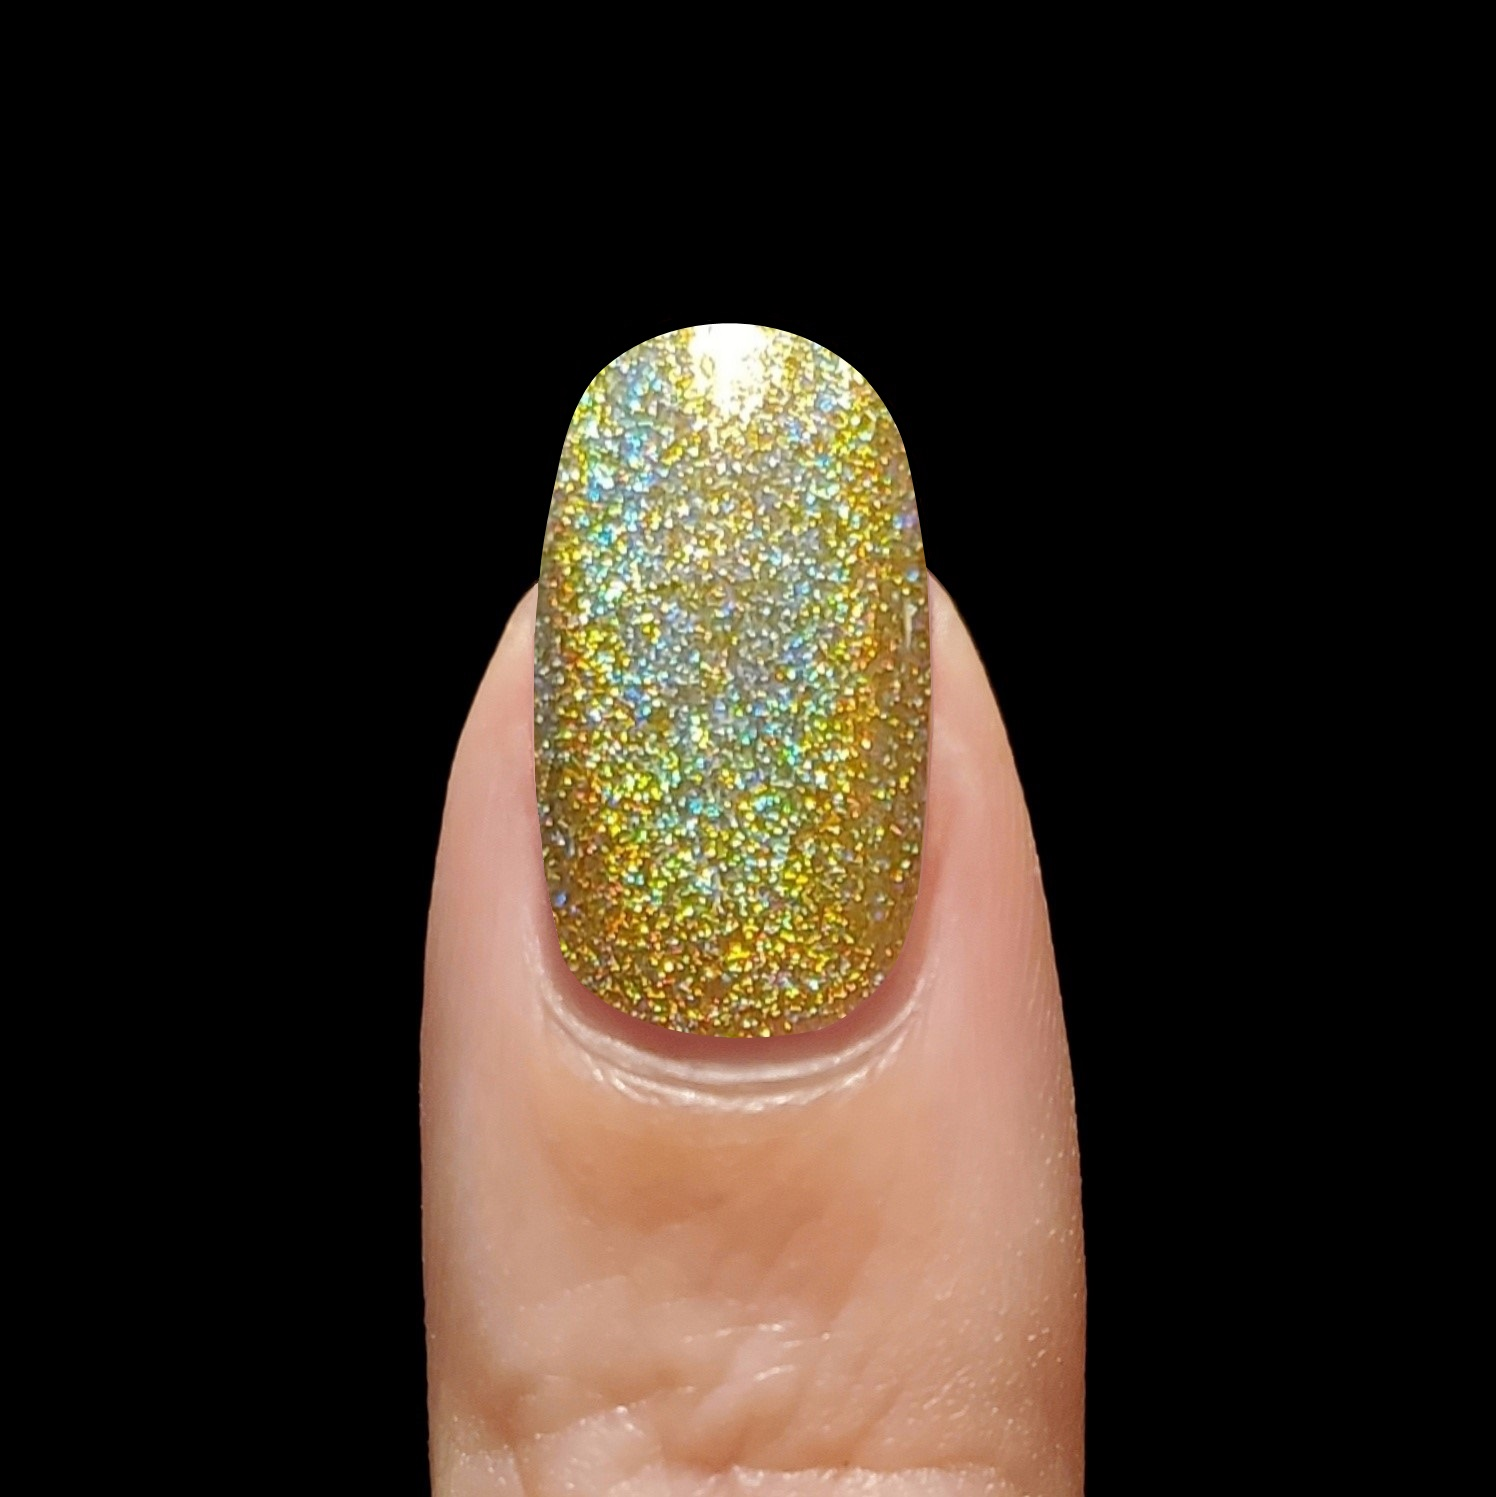
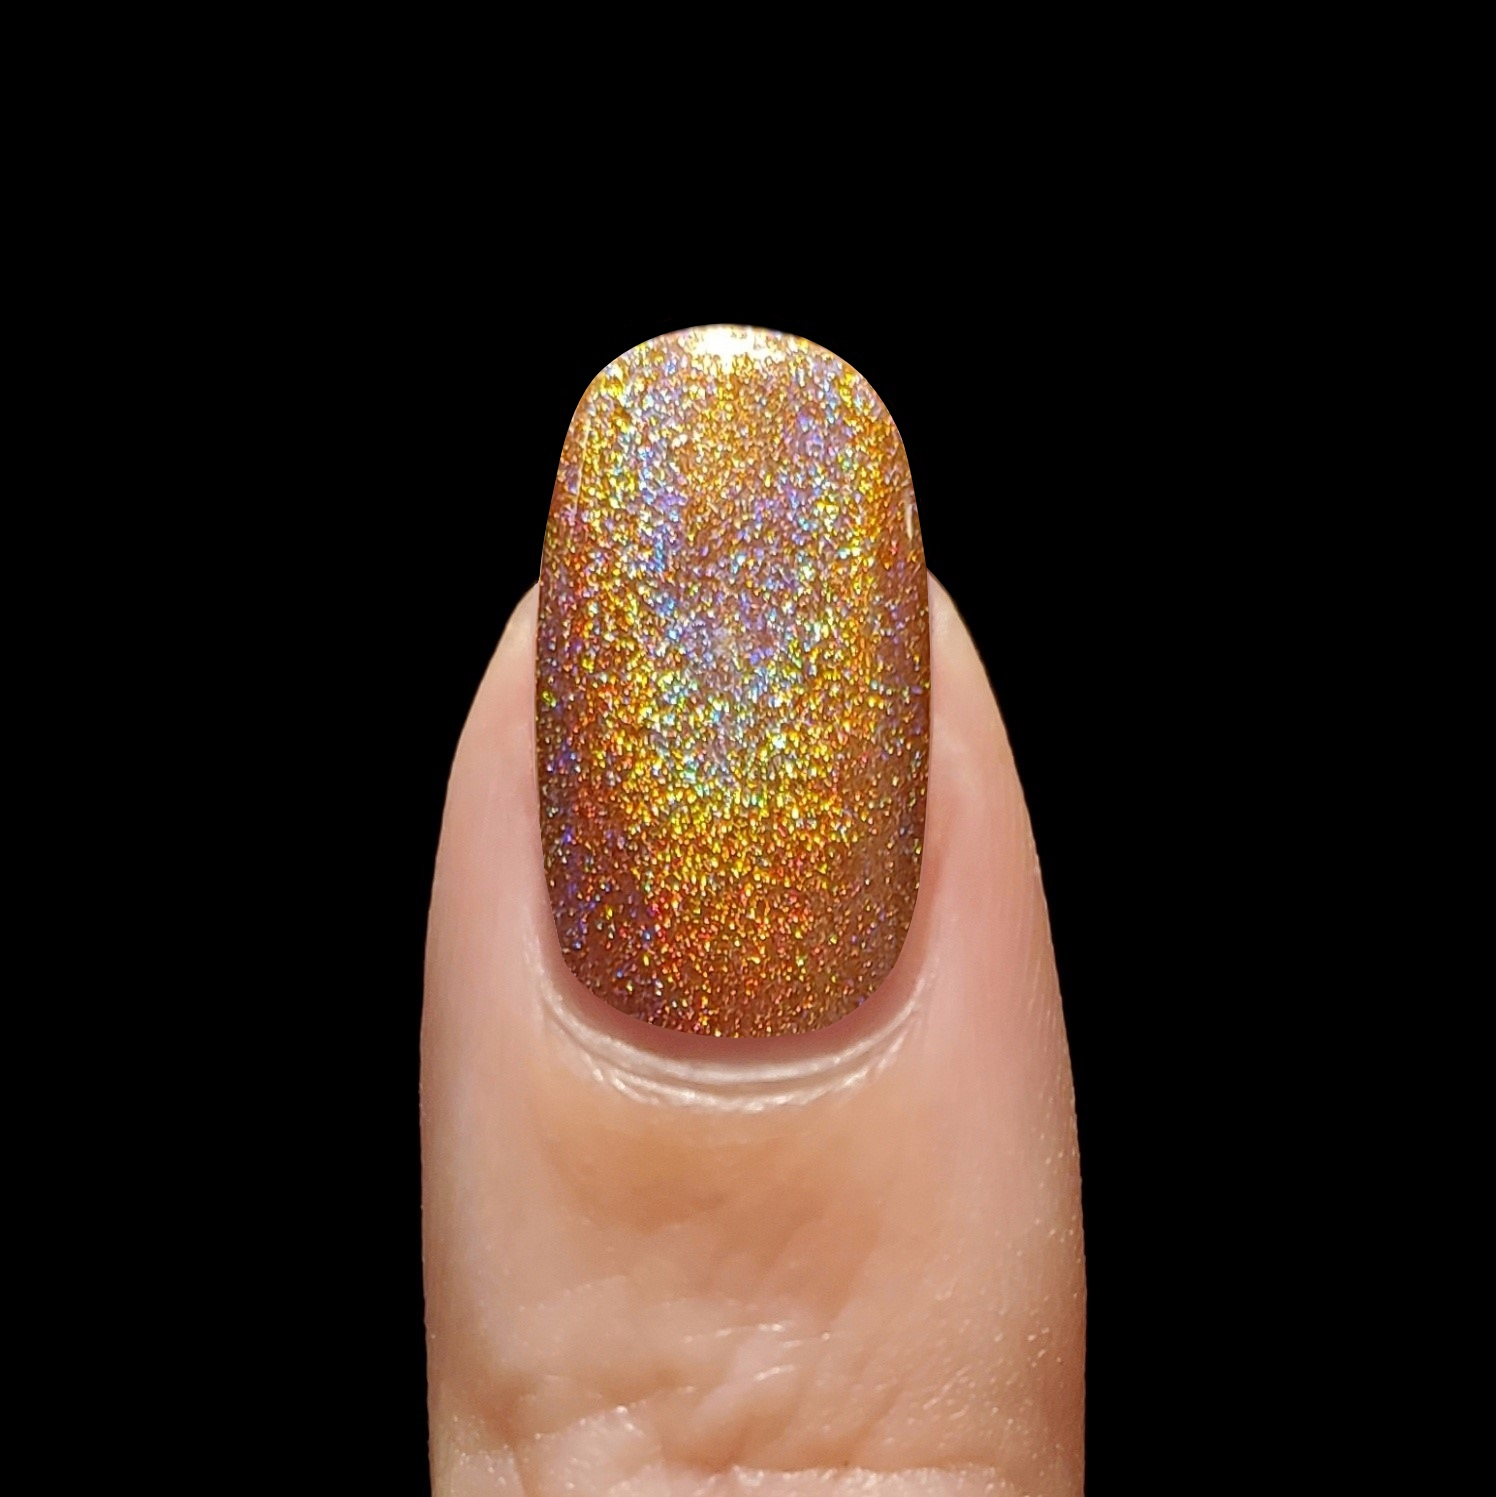
Decouple finish toggles, add polish

Changed region(s): [[0.3382, 0.2151, 0.6457, 0.7067]]

diff --git a/src/components/PolishTile.vue b/src/components/PolishTile.vue
@@ -2,7 +2,7 @@
   <div>
     <div v-b-modal="polish.id" class="text-center ml-3 mb-3">
       <b-img-lazy 
-        :src="getImage(polish.id)" 
+        :src="getImage(polish.id, false)" 
         :alt="polish.name" 
         width=175 
         blank-color="black"
@@ -11,11 +11,11 @@
       <div><strong>{{ polish.brand }}</strong></div>
       <div>{{ polish.name }}</div>
     </div>
-    <b-modal :id="polish.id" :title="polish.name" size="md" hide-footer=true>
+    <b-modal :id="polish.id" :title="polish.name" :hide-footer=true centered>
       <div class="row">
         <div class="col-5">
           <b-img-lazy 
-            :src="getImage(polish.id)" 
+            :src="getImage(polish.id, true)" 
             :alt="polish.name" 
             width=300 
             blank-color="black"
@@ -23,7 +23,7 @@
           </b-img-lazy>
         </div>
         <div class="col-7 mt-3">
-          <FinishToggle class="ml-2 mb-4" v-model="finish" @updateFinish="updateFinish"/>
+          <FinishToggle class="ml-2 mb-4" v-model="modalFinish" @updateFinish="modalFinish = $event"/>
           <table class="ml-2 w-100">
             <colgroup>
               <col span="1" style="width:25%">
@@ -70,16 +70,23 @@ export default {
   components: {
     FinishToggle
   },
+  data: function() {
+    return {
+      modalFinish: this.finish
+    }
+  },
   props: ['polish', 'finish'],
+  mounted: function() {
+    this.$root.$on('bv::modal::show', () => {
+      this.modalFinish = this.finish;
+    });
+  },
   methods: {
-    getImage(polishId) {
-      const finishId = this.finish == 'glossy' ? '1' : '2';
+    getImage(polishId, isModal) {
+      const thisFinish = isModal? this.modalFinish : this.finish
+      const finishId = thisFinish == 'glossy' ? '1' : '2';
       return require('@/assets/' + polishId + '/' + finishId + '.jpg');
-    },
-    updateFinish(finish) {
-      this.finish = finish;
-      this.$emit("updateFinish", finish);
-    },
+    }
   } 
 }
 </script>

diff --git a/src/components/Collection.vue b/src/components/Collection.vue
@@ -34,7 +34,7 @@
         </div>
         <div v-else>
           <div class="row">
-            <PolishTile v-for="(polish, index) in displayedPolishes" :key="index" :polish="polish" :finish="finish" @updateFinish="finish = $event"/>
+            <PolishTile v-for="(polish, index) in displayedPolishes" :key="index" :polish="polish" :finish="finish"/>
           </div>
         </div>
       </div>

diff --git a/src/components/FilterList.vue b/src/components/FilterList.vue
@@ -6,7 +6,7 @@
         <div class="col-6 text-right"><span class="when-open">-</span><span class="when-closed">+</span></div>
       </div>
     </b-button>
-    <b-collapse :id="filter">
+    <b-collapse :id="filter" visible>
       <b-card-body>
         <b-card-text>
           <b-form-checkbox-group
